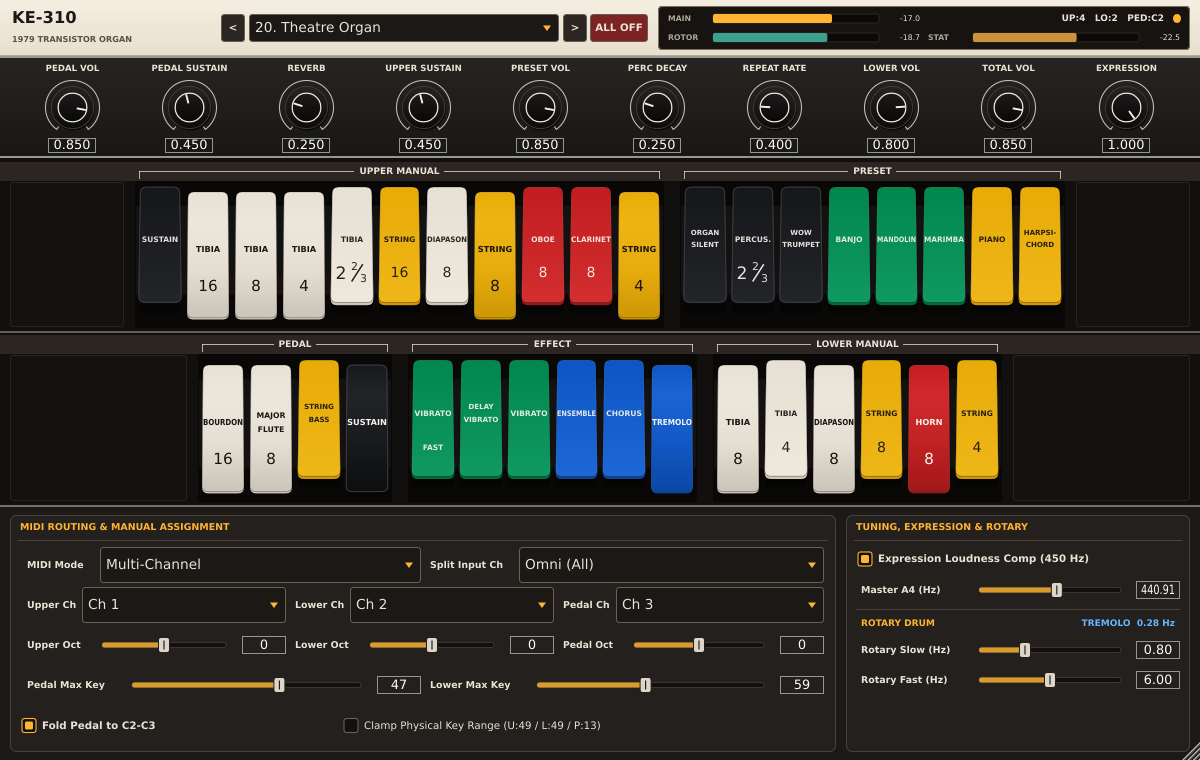
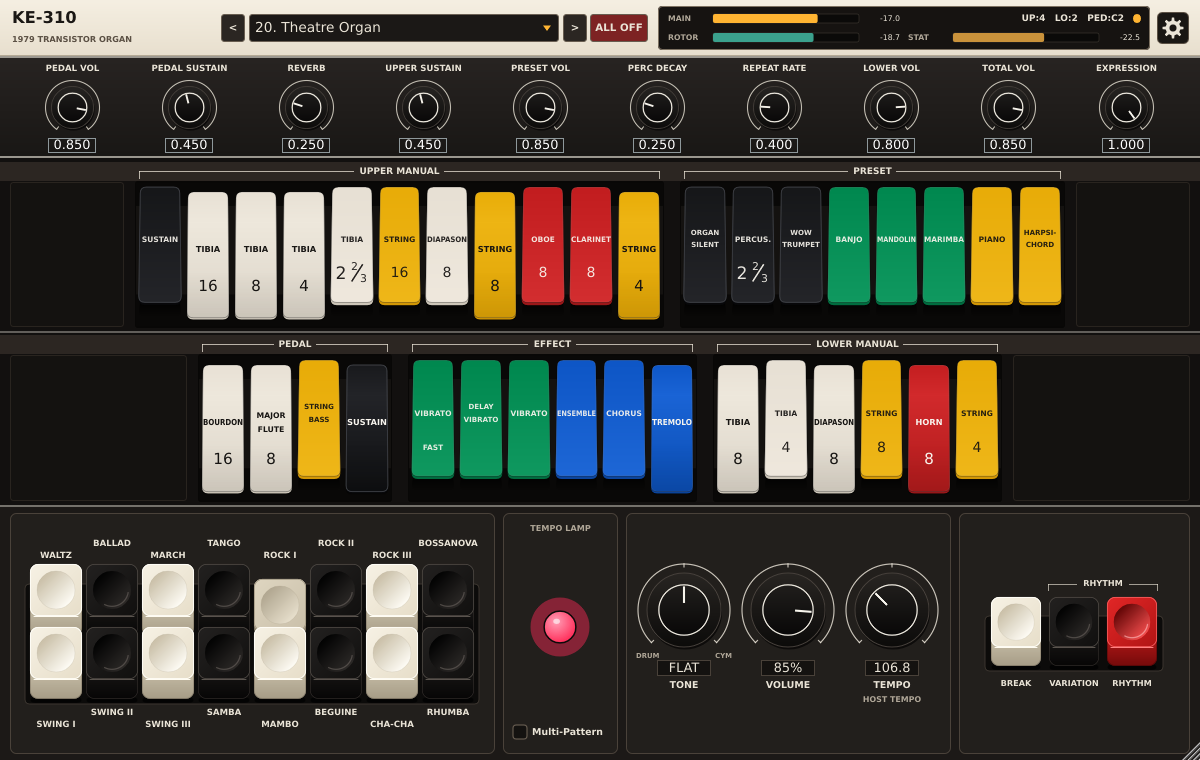
docs: update README and GUI screenshots for KE Rhythmbox integration

diff --git a/README.md b/README.md
@@ -2,28 +2,43 @@
   <img src="assets/icon_256.png" width="128" height="128" alt="KE-310 Organ Icon">
 </p>
 
-<h1 align="center">KE-310 Organ</h1>
+<h1 align="center">KE-310 Organ &amp; KE Rhythmbox</h1>
 <p align="center">
   <strong>Retro Home Organ Collection #1</strong> by <strong>Yuguen Organ (ゆうげんオルガン)</strong><br>
-  1979 Analog Transistor Home Organ Simulator &mdash; VST3 / macOS AudioUnit (AU) / Standalone
+  1979 Analog Transistor Home Organ &amp; Built-In / Standalone Analog Rhythm Synthesizer &mdash; VST3 / macOS AudioUnit (AU) / Standalone
 </p>
 <p align="center">
   <em>Current Status: Public Alpha (<code>v0.1.0-alpha</code>) &bull; License: GPLv3</em>
 </p>
 
 <p align="center">
-  <img src="assets/gui_screenshot.png" alt="KE-310 Organ GUI">
+  <img src="assets/gui_screenshot.png" alt="KE-310 Organ GUI with Embedded KE Rhythmbox">
 </p>
+
+<details>
+<summary>Standalone <strong>KE Rhythmbox</strong> GUI &amp; <strong>KE-310 Organ</strong> Settings View Screenshots / 単体版リズムボックス＆設定画面スクリーンショット</summary>
+
+<p align="center">
+  <strong>KE Rhythmbox (Standalone / VST3 / AU)</strong><br>
+  <img src="assets/gui_rhythmbox_screenshot.png" alt="KE Rhythmbox Standalone GUI">
+</p>
+
+<p align="center">
+  <strong>KE-310 Organ &mdash; Settings View (Upper knobs &amp; tone levers stay visible)</strong><br>
+  <img src="assets/gui_settings_screenshot.png" alt="KE-310 Organ Settings View">
+</p>
+
+</details>
 
 ---
 
 ## Overview / 概要
 
 **KE-310 Organ** is the first instrument in the **Retro Home Organ Collection** developed by **Yuguen Organ (ゆうげんオルガン)**.
-It models the tone generators, divider architecture, analog formant filters, keying/envelope buses, spring reverb, and built-in hornless rotary drum speaker of the 1979 KE-310 transistor home organ in real-time C++20 DSP (`JUCE 8`).
+It models the tone generators, divider architecture, analog formant filters, keying/envelope buses, spring reverb, built-in hornless rotary drum speaker, and built-in **KE Rhythmbox** analog percussion synthesizer of the 1979 KE-310 transistor home organ in real-time C++20 DSP (`JUCE 8`). Alongside **KE-310 Organ**, the rhythm section is also included as a dedicated standalone instrument plugin (**KE Rhythmbox**).
 
 **KE-310 Organ** は、**Yuguen Organ（ゆうげんオルガン）** が贈る **Retro Home Organ Collection 第1弾** です。
-1979年製トランジスタ電子オルガン（KE-310）の音源・分周器・フォルマントフィルタ・キーイング回路・スプリングリバーブ・内蔵ホーンなしロータリードラムスピーカーを、リアルタイム C++20 DSP（JUCE 8）で再現した VST3 / AU / Standalone インストゥルメントです。
+1979年製トランジスタ電子オルガン（KE-310）の音源・分周器・フォルマントフィルタ・キーイング回路・スプリングリバーブ・内蔵ホーンなしロータリードラムスピーカーに加え、実機内蔵のリズムマシン **KE Rhythmbox** までをリアルタイム C++20 DSP（JUCE 8）で再現しました。オルガン本体への内蔵に加え、**KE Rhythmbox** 単体プラグイン（VST3 / AU / Standalone）も同梱しています。
 
 > [!NOTE]
 > This is an **Alpha release (`v0.1.0-alpha`)**. Feedback, bug reports, and DAW compatibility reports via GitHub Issues are welcome.
@@ -32,6 +47,7 @@ It models the tone generators, divider architecture, analog formant filters, key
 
 ## Key Features / 主な機能
 
+### KE-310 Organ
 - **3-Manual Organ Architecture (49 / 49 / 13 Keys)**
   - **Upper Manual (49 keys, C3–C7)**: 10 tone levers (`TIBIA 16'/8'/4'/2 2/3'`, `DIAPASON 8'`, `STRING 16'/8'/4'`, `OBOE 8'`, `CLARINET 8'`) + `UPPER SUSTAIN`
   - **Lower Manual (49 keys, C2–C6)**: 6 tone levers (`TIBIA 8'/4'`, `DIAPASON 8'`, `STRING 8'/4'`, `HORN 8'`)
@@ -43,28 +59,44 @@ It models the tone generators, divider architecture, analog formant filters, key
   - Mechanical **single-rotor drum model** with smooth asymmetric motor acceleration/deceleration inertia: `CHORUS` (Slow), `TREMOLO` (Fast), and Brake (both OFF)
   - User-adjustable **Rotary Slow (Hz)** and **Rotary Fast (Hz)** speeds
   - `VIBRATO`, `VIBRATO FAST`, `DELAY VIBRATO` (disabled automatically when `PIANO` / `HARPSICHORD` active, just like hardware), `ENSEMBLE` (routes Stationary voices into Rotor), `REVERB` (spring tank model), and loudness-compensated `EXPRESSION` pedal
-- **3-Stereo-Bus Multi-Out (DAW Flexibility)**:
-  - `Main Mix` (Stereo) + `Rotor Out` (Stereo) + `Stationary Out` (Stereo)
+- **4-Stereo-Bus Multi-Out (DAW Flexibility)**:
+  - `Main Mix` (Stereo) + `Rotor Out` (Stereo) + `Stationary Out` (Stereo) + `Rhythm Out` (Stereo)
   - When both `CHORUS` and `TREMOLO` are OFF, `Rotor Out` passes completely dry (bit-exact bypass) so DAW users can freely insert external rotary speaker or guitar/organ amp plugins per bus
+  - Configurable rhythm bus routing in Settings: `Stationary (Bypass Ensemble)` (default — sums post-ensemble so `ENSEMBLE ON` never rotates drums), `Rhythm Out (+ Main)`, or `Rhythm Out (Isolated)`
+- **Clean Layout & Gear Settings View**:
+  - All 10 rotary knobs and 35 tone levers remain visible at all times; clicking the top-right **Gear icon** toggles the lower bay between the embedded **KE Rhythmbox** deck and **Settings** (`MIDI Routing & Manual Assignment`, `Tuning, Expression & Rotary`, `Rhythmbox Settings`)
 - **28 Built-in Registration Presets & Flexible MIDI Routing**:
   - Multi-Channel mode (`Upper / Lower / Pedal` independently assignable to `Omni / Ch 1..16 / Off`) and Single-Keyboard Split mode
   - Octave shifts (`-2..+2`), optional pedal octave folding, physical key range clamp toggle, MIDI `CC#11` Expression, `CC#7` Volume, and `CC#64` Knee Sustainer
+
+### KE Rhythmbox (Embedded & Standalone)
+- **11 Analog Percussion Voices & 16 Hardware Patterns**:
+  - Real-time synthesis of Bass Drum, Snare Drum, Cymbal, High-Hat, Tambourine, Low/High Congas, Low Bongo, Claves, Rim Shot, and Cowbell (no external samples)
+  - 16 ROM rhythm patterns (`WALTZ`, `BALLAD`, `MARCH`, `TANGO`, `ROCK I–III`, `BOSSANOVA`, `SWING I–III`, `SAMBA`, `MAMBO`, `BEGUINE`, `CHA-CHA`, `RHUMBA`), `Multi-Pattern` Wired-OR combinator (checkbox or multi-touch simultaneous press), and 0-selection idle state
+- **Hardware Action Controls & Organ Synchro-Start (`KE-310 Organ`)**:
+  - **`RHYTHM`** (Red button): Arms synchro-start from Beat 1 whenever Pedal or Lower Manual (`C2–C5`) is played; turning OFF stops immediately
+  - **`BREAK`** (White button): When `RHYTHM` is ON, plays from Beat 1 only while Pedal or Lower Manual (`C2–C5`) keys are held and stops immediately on release
+  - **`VARIATION`** (Black button): Enables pattern variation on supported rhythms (all patterns except `TANGO`, `BEGUINE`, `RHUMBA` per manual)
+- **Tone, Tempo Sync & GM MIDI Triggering**:
+  - `TONE` (Drums &larr; Flat &rarr; Cymbals tilt/balance), `VOLUME`, `TEMPO` (40–240 BPM) + external mode readout (`HOST TEMPO` / `HOST SYNC`), pinkish-red flashing **Tempo Lamp**, and `Analog Drift`
+  - Sync modes: `Internal`, `Host Tempo` (follows DAW BPM with `RHYTHM`/`BREAK` or `START/STOP`), and `Host Sync` (follows DAW transport & PPQ)
+  - GM Drum Map MIDI triggering (`Omni / Ch 1..16 / Off`; defaults to `Ch 10` inside `KE-310 Organ` and `Omni` in standalone `KE Rhythmbox`, plus 11 audition trigger pads in standalone)
 
 ---
 
 ## Download & Installation / ダウンロードと導入方法
 
-Pre-built binaries are published on the [GitHub Releases](../../releases) page (`.zip` archives for **Windows x64**, **macOS Universal arm64+x86_64**, and **Linux x64**).
+Pre-built binaries for both **KE-310 Organ** and **KE Rhythmbox** are published on the [GitHub Releases](../../releases) page (`.zip` archives for **Windows x64**, **macOS Universal arm64+x86_64**, and **Linux x64**).
 
 ### Windows (x64)
-- **VST3**: Copy `KE-310 Organ.vst3` into `C:\Program Files\Common Files\VST3\`
-- **Standalone**: Run `KE-310 Organ.exe` directly from any folder
-- **Audio Driver Note**: The Standalone app uses **Windows Audio (WASAPI Shared / Exclusive / Low Latency)** and **DirectSound** (it does not bundle proprietary ASIO drivers). If you prefer using an ASIO audio interface directly, please load `KE-310 Organ.vst3` inside an ASIO-compatible DAW or VST3 host.
+- **VST3**: Copy `KE-310 Organ.vst3` and/or `KE Rhythmbox.vst3` into `C:\Program Files\Common Files\VST3\`
+- **Standalone**: Run `KE-310 Organ.exe` and/or `KE Rhythmbox.exe` directly from any folder
+- **Audio Driver Note**: The Standalone apps use **Windows Audio (WASAPI Shared / Exclusive / Low Latency)** and **DirectSound** (proprietary ASIO drivers are not bundled). If you prefer using an ASIO audio interface directly, please load the `.vst3` plugins inside an ASIO-compatible DAW or VST3 host.
 
 ### macOS (Apple Silicon + Intel Universal)
-- **VST3**: Copy `KE-310 Organ.vst3` to `/Library/Audio/Plug-Ins/VST3/`
-- **AudioUnit (AU)**: Copy `KE-310 Organ.component` to `/Library/Audio/Plug-Ins/Components/`
-- **Standalone**: Copy `KE-310 Organ.app` to `/Applications/`
+- **VST3**: Copy `KE-310 Organ.vst3` and/or `KE Rhythmbox.vst3` to `/Library/Audio/Plug-Ins/VST3/`
+- **AudioUnit (AU)**: Copy `KE-310 Organ.component` and/or `KE Rhythmbox.component` to `/Library/Audio/Plug-Ins/Components/`
+- **Standalone**: Copy `KE-310 Organ.app` and/or `KE Rhythmbox.app` to `/Applications/`
 
 > [!IMPORTANT]
 > **macOS Gatekeeper Notice (Alpha Unsigned Builds)**
@@ -73,11 +105,15 @@ Pre-built binaries are published on the [GitHub Releases](../../releases) page (
 > xattr -cr "/Library/Audio/Plug-Ins/VST3/KE-310 Organ.vst3"
 > xattr -cr "/Library/Audio/Plug-Ins/Components/KE-310 Organ.component"
 > xattr -cr "/Applications/KE-310 Organ.app"
+>
+> xattr -cr "/Library/Audio/Plug-Ins/VST3/KE Rhythmbox.vst3"
+> xattr -cr "/Library/Audio/Plug-Ins/Components/KE Rhythmbox.component"
+> xattr -cr "/Applications/KE Rhythmbox.app"
 > ```
 
 ### Linux (x64)
-- **VST3**: Copy `KE-310 Organ.vst3` to `~/.vst3/`
-- **Standalone**: Make `KE-310 Organ` executable (`chmod +x "KE-310 Organ"`) and run it
+- **VST3**: Copy `KE-310 Organ.vst3` and/or `KE Rhythmbox.vst3` to `~/.vst3/`
+- **Standalone**: Make `KE-310 Organ` / `KE Rhythmbox` executable (`chmod +x "KE-310 Organ" "KE Rhythmbox"`) and run them
 
 ---
 
@@ -86,11 +122,11 @@ Pre-built binaries are published on the [GitHub Releases](../../releases) page (
 Requirements: CMake >= 3.22, a C++20 compiler, Git, and internet access (to fetch JUCE 8.0.6 and Catch2 v3.7.1 via `FetchContent`).
 
 ```bash
-# Configure & Build (Release VST3 / AU / Standalone / Catch2 Tests)
+# Configure & Build (Release VST3 / AU / Standalone / Catch2 Tests for both plugins)
 cmake -B build -DCMAKE_BUILD_TYPE=Release
 cmake --build build --parallel
 
-# Run all 19 Catch2 DSP & Plugin unit tests
+# Run all 34 Catch2 DSP & Plugin unit tests
 ctest --test-dir build --output-on-failure -V
 ```
 
@@ -102,4 +138,4 @@ ctest --test-dir build --output-on-failure -V
 
 - **License**: Released under the **GNU General Public License v3.0 (GPLv3)** (compatible with JUCE 8 open-source licensing). The copyright holder (**Yuguen Organ**) retains the right to distribute this software under separate commercial or proprietary license terms. By submitting a Pull Request or contribution to this repository, you agree that your contribution may be licensed and distributed under both GPLv3 and separate commercial terms; see [LICENSE](LICENSE) for full details.
 - **Framework**: Built with [JUCE 8](https://juce.com/).
-- **Disclaimer**: *KE-310 Organ* is an independent software modeling project created by **Yuguen Organ (ゆうげんオルガン)**. It is not affiliated with, endorsed by, or sponsored by any hardware musical instrument manufacturer. All stop names refer to traditional electronic organ registration terminology.
+- **Disclaimer**: *KE-310 Organ* and *KE Rhythmbox* are independent software modeling projects created by **Yuguen Organ (ゆうげんオルガン)**. They are not affiliated with, endorsed by, or sponsored by any hardware musical instrument manufacturer. All stop and rhythm names refer to traditional electronic organ terminology.
